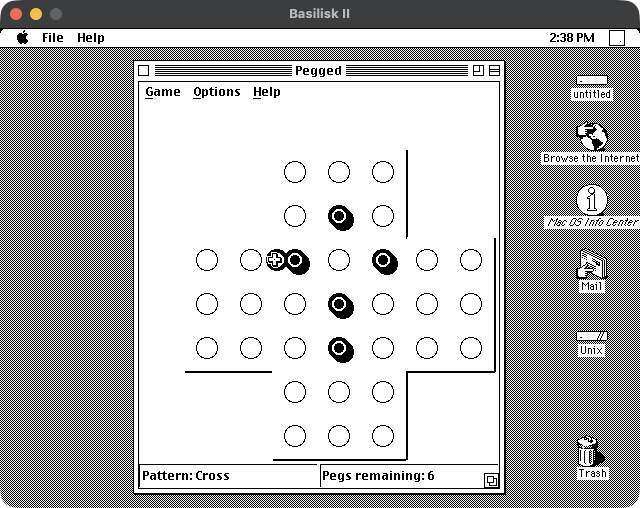
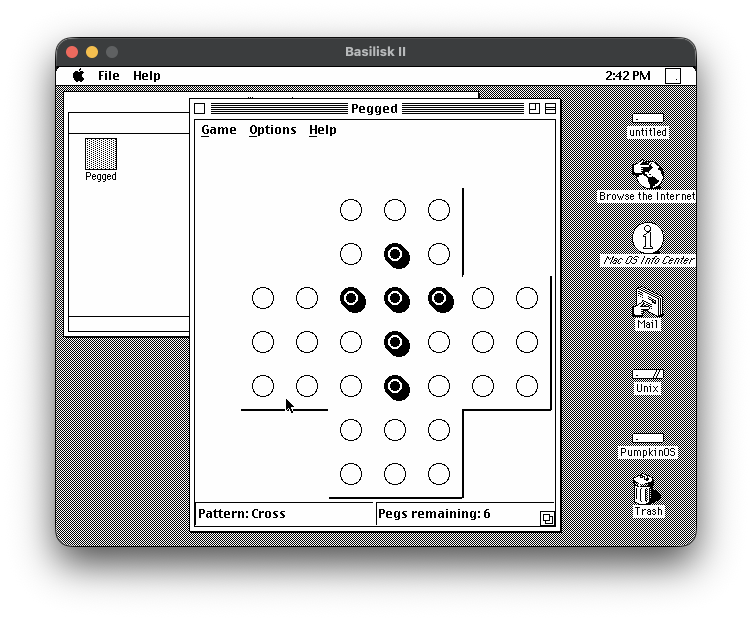
Addd Mac OS screenshots

diff --git a/README.md b/README.md
@@ -18,6 +18,14 @@ and runs unchanged on Linux (GTK), macOS (Cocoa), and Windows (MSW).
 
 ![](/screenshots/wxpegged_macOS.png)
 
+- Mac OS 7.5.X (m68k)
+
+![](/screenshots/wxPegged_MacOS_m68k.png)
+
+- Mac OS 9.X (ppc)
+
+![](/screenshots/wxPegged_MacOS_ppc.png)
+
 - Linux:
 
 ![](/screenshots/wxpegged_linux.png)
